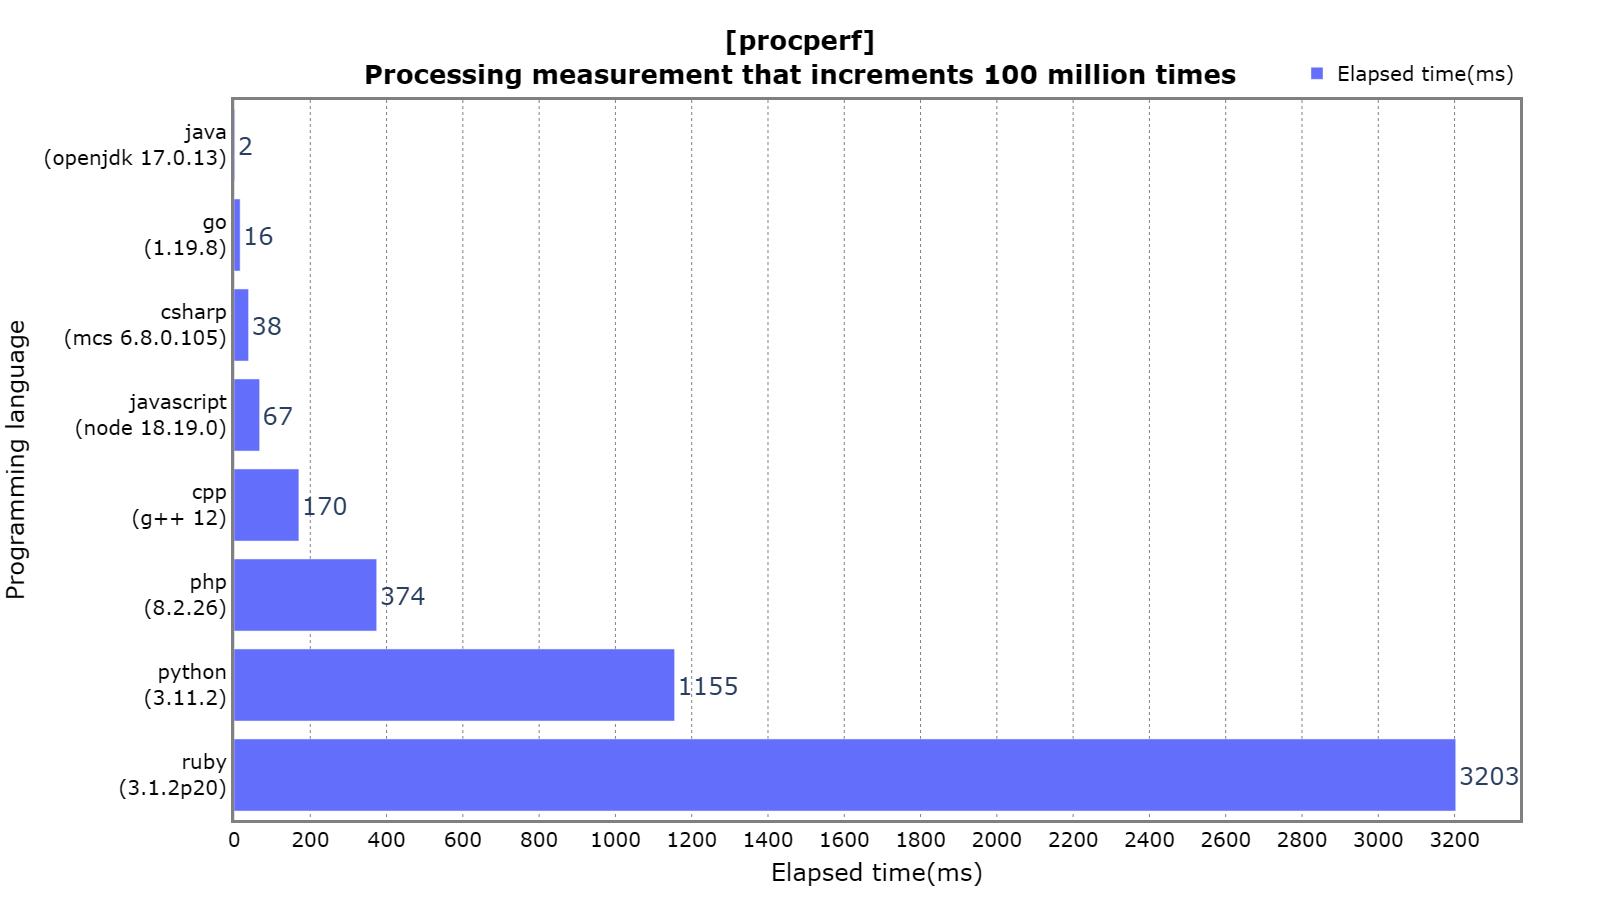
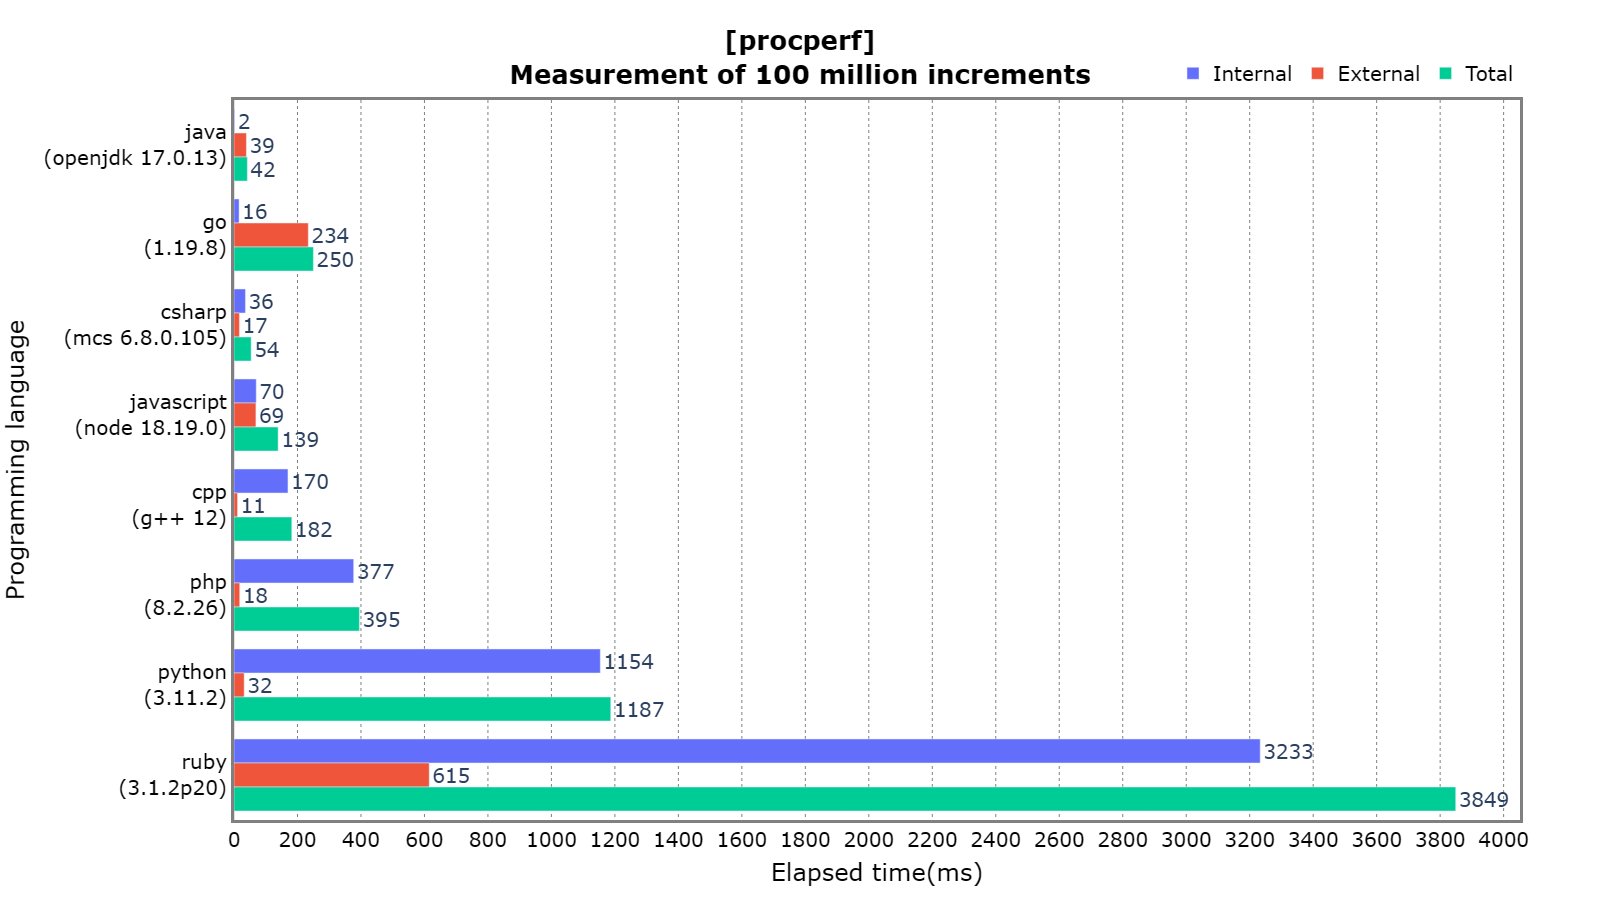
Update procperf

diff --git a/src/perfait/scripts/perfait_scripts/perfait/perfait.js b/src/perfait/scripts/perfait_scripts/perfait/perfait.js
@@ -23,7 +23,7 @@ class Perfait {
   static measure(onProcess){
     var stopwatch = new Stopwatch();
     onProcess();
-    console.log("%f", stopwatch.stop());
+    return stopwatch.stop();
   }
 }
 

diff --git a/tests/procperf/procperf.js b/tests/procperf/procperf.js
@@ -1,0 +1,7 @@
+const perfait = require("perfait");
+
+function on_process(){
+  for (let i = 0; i < 100000000; ++i){}
+}
+
+console.log("%f", perfait.Perfait.measure(on_process));

diff --git a/tests/image_write_procperf.py b/tests/image_write_procperf.py
@@ -1,0 +1,100 @@
+import os
+import sys
+import json
+import time
+import gc
+sys.path.append(os.path.dirname(__file__))
+from command import *
+
+if "PERFAIT_PATH" not in os.environ:
+  os.environ["PERFAIT_PATH"] = os.path.abspath(os.path.join(os.path.dirname(__file__), "../src/perfait/scripts/perfait_scripts/perfait"))
+
+procperfConfig = dict(
+  cpp = ["./procperf_cpp"],
+  python = ["python3", "./procperf.py"],
+  csharp = ["mono", "./procperf_cs"],
+  go = ["go", "run", "./procperf.go"],
+  ruby = ["ruby", "-I", os.environ["PERFAIT_PATH"], "./procperf.rb"],
+  php = ["php", "-c", ".", "./procperf.php"],
+  javascript = ["node", "./procperf.js"],
+  java = ["java", "perfait.Procperf"],
+)
+
+def proglang_prepare(proglang):
+  perfaitPath = os.environ["PERFAIT_PATH"]
+  match proglang:
+    case "cpp":
+      command(["g++", "-o", "procperf_cpp", "-I", perfaitPath, "procperf.cpp"])
+    case "csharp":
+      command(["mcs", "-out:procperf_cs", "./procperf.cs", os.path.join(perfaitPath, "perfait.cs")])
+    case "java":
+      command(["javac", os.path.join(perfaitPath, "perfait.java"), "./procperf.java", "-d", "."])
+      command(["javac", "./procperf.java", "-d", "."])
+    case "python":
+      os.environ["PYTHONPATH"] = perfaitPath
+    case "javascript":
+      os.environ["NODE_PATH"] = perfaitPath
+
+def proglang_version(proglang):
+  match proglang:
+    case "cpp":
+      args = ["g++", "-dumpversion"]
+      return " ".join([args[0], capture_command(args).stdout.rstrip().split()[0]])
+    case "python":
+      args = ["python3", "-V"]
+      return capture_command(args).stdout.rstrip().split()[-1]
+    case "csharp":
+      args = ["mcs", "--version"]
+      return " ".join([args[0], capture_command(args).stdout.rstrip().split()[-1]])
+    case "go":
+      args = ["go", "version"]
+      return capture_command(args).stdout.rstrip().split()[2][2:]
+    case "ruby":
+      args = ["ruby", "--version"]
+      return capture_command(args).stdout.rstrip().split()[1]
+    case "php":
+      args = ["php", "--version"]
+      return capture_command(args).stdout.rstrip().split()[1]
+    case "javascript":
+      args = ["node", "-v"]
+      return " ".join([args[0], capture_command(args).stdout.rstrip()[1:]])
+    case "java":
+      args = ["java", "--version"]
+      versions = capture_command(args).stdout.rstrip().split()
+      return " ".join([versions[0], versions[1]])
+    case _:
+      return "?"
+
+def proglang_elapsed_times(args):
+  elapsedTimes = []
+  for _ in range(5):
+    gc.collect()
+    gc.disable()
+    startTime = time.perf_counter()
+    result = capture_command(args)
+    stdout = result.stdout
+    stderr = result.stderr
+    elapsedTime = time.perf_counter() - startTime
+    if 0 < len(stderr):
+      sys.exit("""\033[40m\033[31m{}\033[0m""".format(stderr))
+    print(stdout, end = "")
+    internalElapsedTime = float(stdout)
+    elapsedTimes.append([internalElapsedTime, elapsedTime - internalElapsedTime, elapsedTime])
+    gc.enable()
+  elapsedTimes.sort()
+  return list(map(lambda elapsedTime: int(elapsedTime * 1000), elapsedTimes[int(len(elapsedTimes) / 2)]))
+
+os.chdir(os.path.join(os.path.dirname(__file__), "procperf"))
+for proglang in procperfConfig.keys():
+  proglang_prepare(proglang)
+pivotTableArray = []
+for proglang in procperfConfig.keys():
+  pivotTable = proglang_elapsed_times(procperfConfig[proglang])
+  pivotTable.insert(0, """{}<br>({})""".format(proglang, proglang_version(proglang)))
+  pivotTableArray.append(pivotTable)
+pivotTableArray.sort(key = lambda performance: performance[1])
+pivotTableArray.insert(0 , ["", "Internal", "External", "Total"])
+filePath = "../../images/procperf.json"
+os.makedirs(os.path.dirname(filePath), exist_ok = True)
+with open(filePath, "w", encoding = "utf-8", newline = "\n") as file:
+  json.dump(pivotTableArray, file, indent = 2)

diff --git a/tests/test_procperf.py b/tests/test_procperf.py
@@ -2,11 +2,11 @@ from pyemon import *
 import graspgraph as gg
 
 def test_procperf():
-  Command(["docker", "compose", "run", "--rm", "debian", "python3", "/home/perfait/tests/procperf.py"]).run()
+  Command(["docker", "compose", "run", "--rm", "debian", "python3", "/home/perfait/tests/image_write_procperf.py"]).run()
   pivotTableArray = Command.json_load("./images/procperf.json")
   pivotgraph = gg.Pivotgraph(gg.PivotgraphAxis(gg.PivotTable.from_array(pivotTableArray), gg.FigureTick(200)))
   figure = pivotgraph.to_figure()
-  figure.LayoutTitleText = "<b>[procperf]<br>Processing measurement that increments 100 million times</b>"
+  figure.LayoutTitleText = "<b>[procperf]<br>Measurement of 100 million increments</b>"
   figure.XTitleText = "Elapsed time(ms)"
   figure.YTitleText = "Programming language"
   figure.Write("./images/procperf.png")

diff --git a/src/perfait/scripts/perfait_scripts/perfait/perfait.cs b/src/perfait/scripts/perfait_scripts/perfait/perfait.cs
@@ -5,12 +5,12 @@ namespace perfait {
   public class Perfait {
     public delegate void ProcessEvent();
 
-    static public void Measure(ProcessEvent onProcess){
+    static public double Measure(ProcessEvent onProcess){
       var stopwatch = new Stopwatch();
       stopwatch.Start();
       onProcess();
       stopwatch.Stop();
-      Console.WriteLine($"{stopwatch.Elapsed.TotalSeconds:F6}");
+      return stopwatch.Elapsed.TotalSeconds;
     }
   }
 }

diff --git a/src/perfait/scripts/perfait_scripts/perfait/perfait.go b/src/perfait/scripts/perfait_scripts/perfait/perfait.go
@@ -2,7 +2,6 @@ package perfait
 
 import (
   "time"
-  "fmt"
 )
 
 func __get_time()(float64){
@@ -30,8 +29,8 @@ func (stopwatch *Stopwatch)Stop()(float64){
 
 type PerfaitMeasureOnProcess func()
 
-func PerfaitMeasure(onProcess PerfaitMeasureOnProcess){
+func PerfaitMeasure(onProcess PerfaitMeasureOnProcess)(float64){
   stopwatch := StopwatchNew()
   onProcess()
-  fmt.Printf("%.6f\n", stopwatch.Stop())
+  return stopwatch.Stop()
 }

diff --git a/src/perfait/scripts/perfait_scripts/perfait/perfait.hpp b/src/perfait/scripts/perfait_scripts/perfait/perfait.hpp
@@ -33,10 +33,10 @@ namespace perfait {
     public:
       typedef void (*ProcessEvent)();
 
-      static void measure(ProcessEvent onProcess){
+      static double measure(ProcessEvent onProcess){
         Stopwatch stopwatch = Stopwatch();
         onProcess();
-        printf("%.6f\n", stopwatch.stop());
+        return stopwatch.stop();
       }
   };
 }

diff --git a/src/perfait/scripts/perfait_scripts/perfait/perfait.java b/src/perfait/scripts/perfait_scripts/perfait/perfait.java
@@ -26,9 +26,9 @@ class Perfait {
     void OnProcess();
   }
 
-  static public void measure(ICallback callback){
+  static public double measure(ICallback callback){
     var stopwatch = new Stopwatch();
     callback.OnProcess();
-    System.out.printf("%.6f\n", stopwatch.stop());
+    return stopwatch.stop();
   }
 }

diff --git a/tests/procperf/procperf.go b/tests/procperf/procperf.go
@@ -2,6 +2,7 @@ package main
 
 import (
   "perfait"
+  "fmt"
 )
 
 func on_process(){
@@ -9,5 +10,5 @@ func on_process(){
 }
 
 func main(){
-  perfait.PerfaitMeasure(on_process)
+  fmt.Printf("%.6f\n", perfait.PerfaitMeasure(on_process))
 }

diff --git a/src/perfait/scripts/perfait_scripts/perfait/perfait.php b/src/perfait/scripts/perfait_scripts/perfait/perfait.php
@@ -26,7 +26,7 @@ class Perfait {
   static public function measure($onProcess){
     $stopwatch = new Stopwatch();
     $onProcess();
-    printf("%.6f\n", $stopwatch->stop());
+    return $stopwatch->stop();
   }
 }
 ?>

diff --git a/tests/procperf/procperf.cpp b/tests/procperf/procperf.cpp
@@ -5,6 +5,6 @@ static void on_process(){
 }
 
 int main(int argc, const char* argv[]){
-  perfait::Perfait::measure(on_process);
+  printf("%.6f\n", perfait::Perfait::measure(on_process));
   return EXIT_SUCCESS;
 }

diff --git a/src/perfait/scripts/perfait_scripts/perfait/perfait.rb b/src/perfait/scripts/perfait_scripts/perfait/perfait.rb
@@ -21,7 +21,7 @@ module Perfait
     def self.measure(&onProcess)
       stopwatch = Stopwatch.new
       onProcess.call()
-      puts(sprintf("%.6f", stopwatch.stop()))
+      stopwatch.stop()
     end
   end
 end
